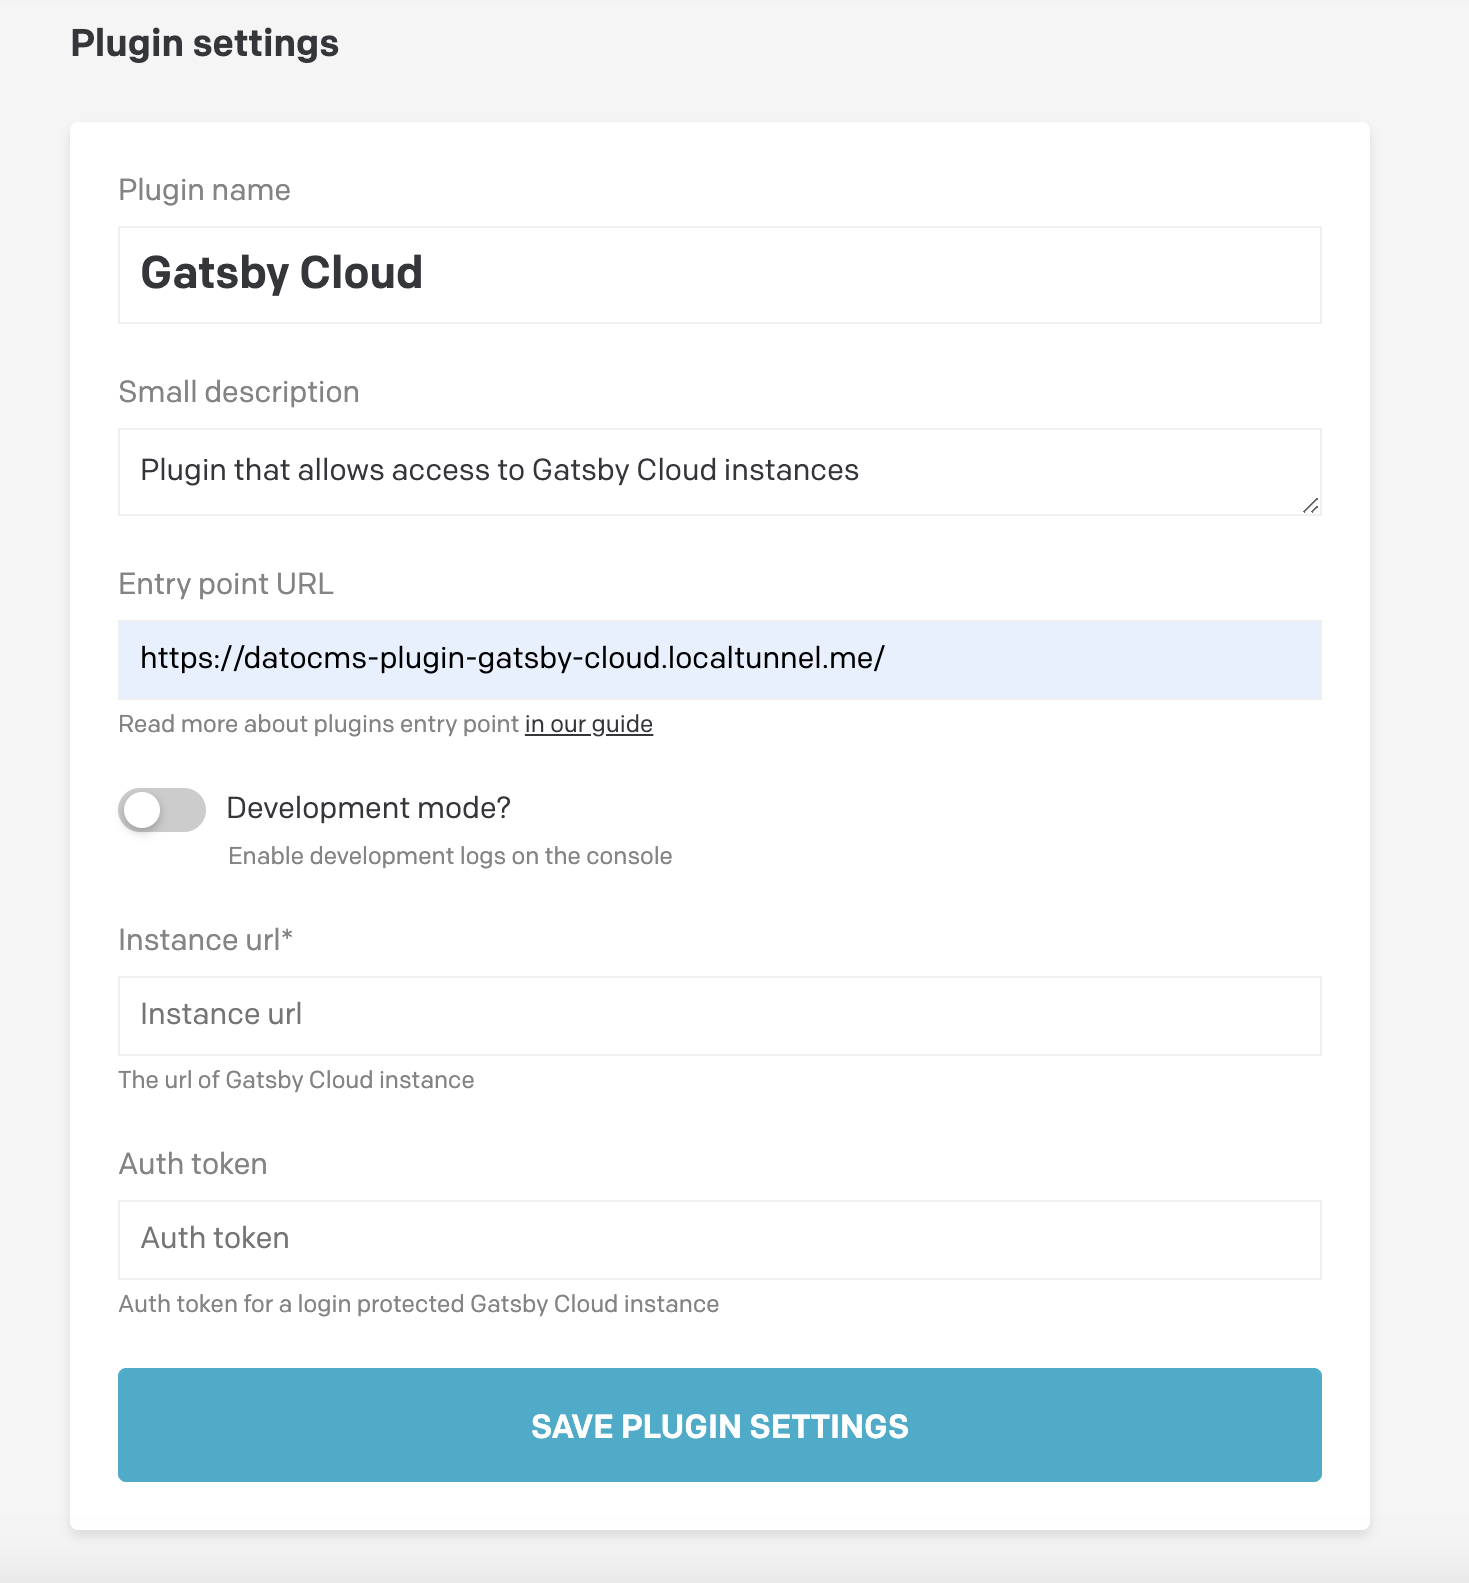
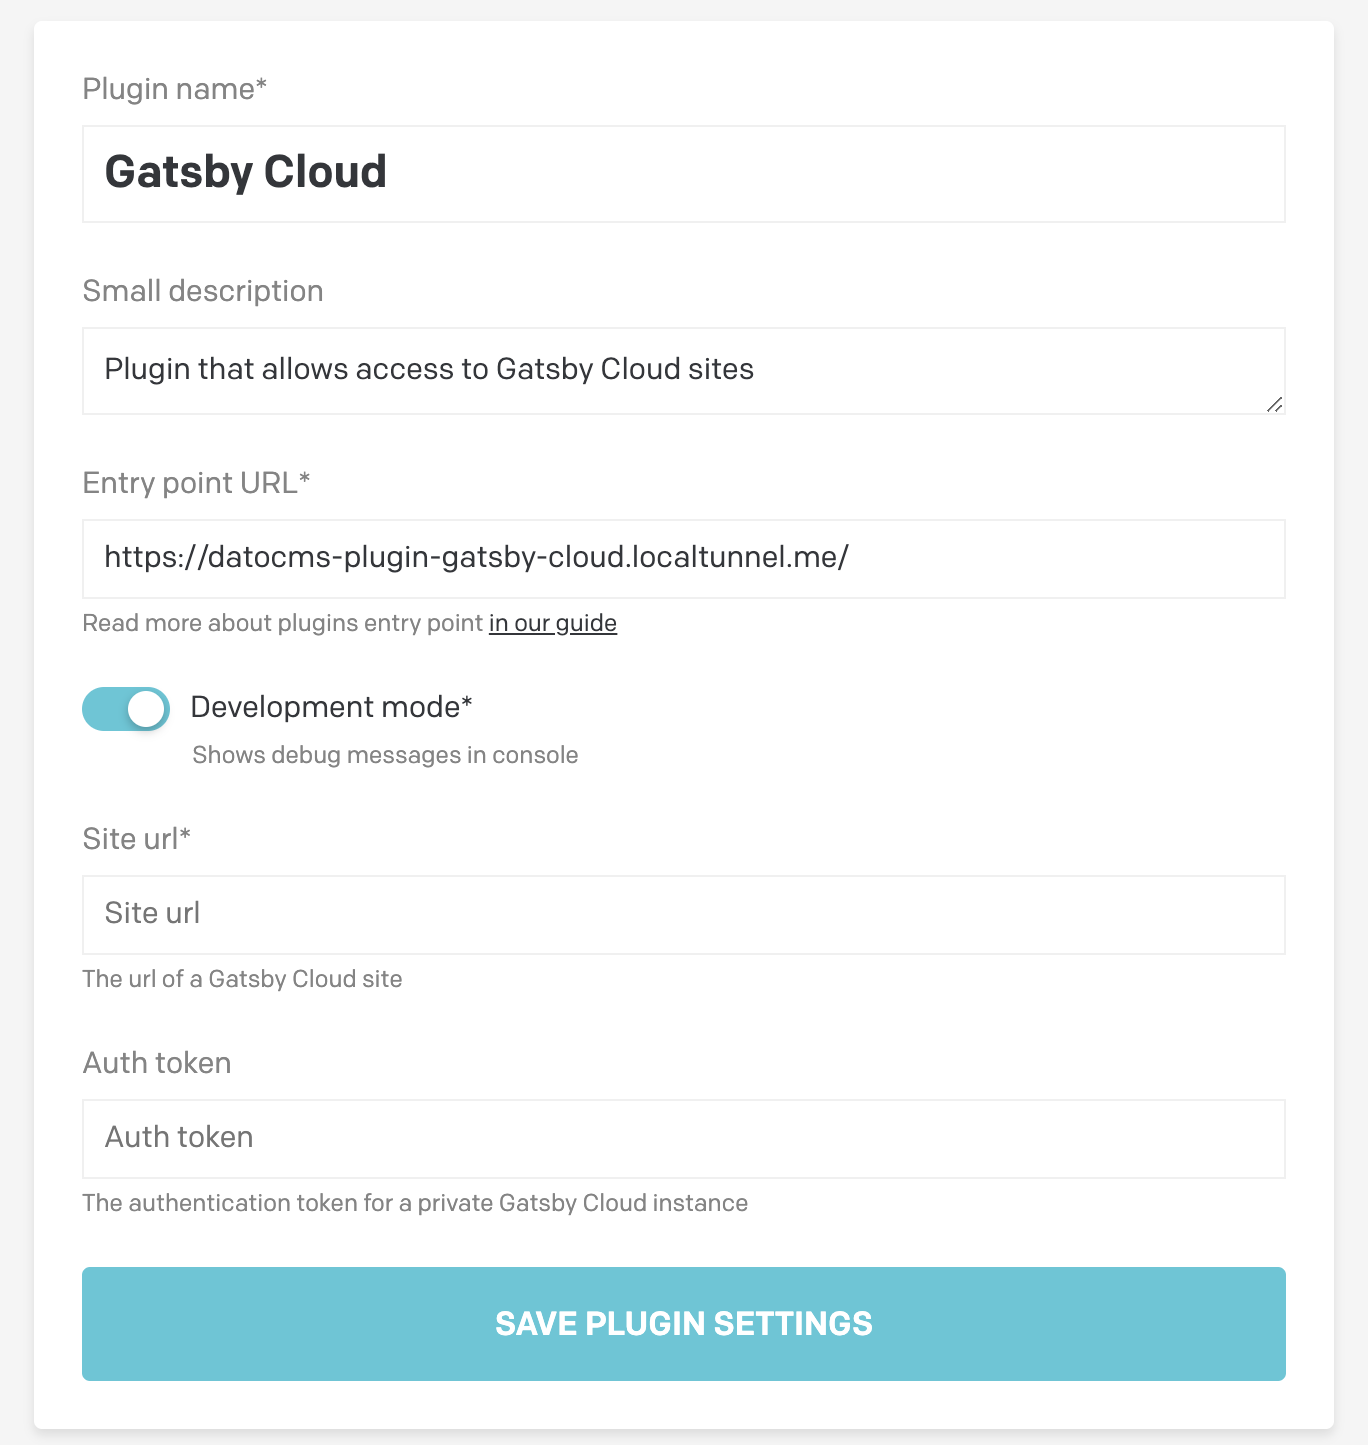
Change preview and iinstance to site

diff --git a/src/Main.jsx b/src/Main.jsx
@@ -58,7 +58,7 @@ export default class Main extends Component {
     const { plugin } = this.props;
     const {
       parameters: {
-        global: { instanceUrl, authToken },
+        global: { siteUrl, authToken },
       },
     } = plugin;
     const { initalValue, contentSlug } = this.state;
@@ -68,7 +68,7 @@ export default class Main extends Component {
         <h1>Gatsby Cloud</h1>
         <ExtensionUI
           contentSlug={contentSlug || initalValue}
-          previewInstanceUrl={instanceUrl}
+          siteUrl={siteUrl}
           authToken={authToken}
         />
       </div>

diff --git a/README.md b/README.md
@@ -1,12 +1,12 @@
 # Gatsby Cloud DatoCMS plugin
 
-Plugin that allows access to Gatsby Cloud instances
+Plugin that allows access to Gatsby Cloud sites
 
 ## Configuration
 
-Please specify a Gatsby Cloud preview instance url (required) and auth token (optional) in the plugin global settings.
+Please specify a Gatsby Cloud site url (required) and auth token (optional) in the plugin global settings.
 
-![Configuration screenshot](https://user-images.githubusercontent.com/18426780/61498853-37e35a00-a982-11e9-889a-a24e484c4202.png)
+![Configuration screenshot](https://user-images.githubusercontent.com/18426780/62660663-ec422180-b92b-11e9-929e-03a66906d851.png)
 
 ## Plugin 
 
